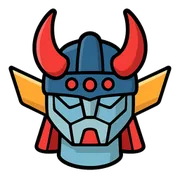
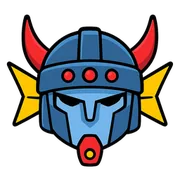
Use neckless Taekwon V head
Claude-Session: https://claude.ai/code/session_019QwctBLnb4UTXMJBnbargq

diff --git a/index.html b/index.html
@@ -2089,7 +2089,7 @@ const faceHTML = (e, who = 'suit') => FACE_ART[who][e] || FACE_ART.suit[e] || e;
 // 같은 그림이 여러 개 있어도 박자가 겹치지 않게 시작점을 흩뜨림
 // 그림을 다시 그려도 폰에 남은 옛 그림이 보이지 않게 주소에 버전을 붙임
 // 파일마다 내용이 바뀔 때만 새로 받도록 파일 해시를 붙임 (빌드할 때 채움)
-const ART_HASH = {"tile-gundam-a.png": "41a00219", "ind-school-a.png": "1b0fc977", "robot-cobot-cook-b.png": "3f739fa6", "tile-tool-a.png": "f174149f", "tile-made-a.png": "d557ba97", "ind-training-b.png": "0efc1d0b", "robot-qarm-a.png": "901f7afc", "tile-legs-b.png": "c0299b41", "tile-union-b.png": "b3a03a42", "tile-mgodz-b.png": "64821f9c", "robot-indus-b.png": "4a7cabef", "face-cook-frown.png": "e01a4907", "face-cook-neutral.png": "71441525", "ind-battery-b.png": "6e2bd18d", "ind-fire-a.png": "a71484d3", "face-trump-neutral.png": "5aecac90", "tile-legs-a.png": "2faadad6", "face-worker-angry.png": "eb6b88ed", "ind-steel-a.png": "0f070238", "face-suitf-delight.png": "d729900f", "tile-iarm-a.png": "fc127d92", "ind-steel-b.png": "e122612f", "ind-defense-b.png": "5aa959f1", "face-cook-angry.png": "50c65318", "ind-port-b.png": "6f5dc395", "tile-tf-a.png": "d2bc0939", "ind-factory-a.png": "909659fd", "tile-grendizer-b.png": "0151be7f", "tile-term-b.png": "fa8e5b3f", "face-neutral.png": "a9a959b5", "tile-wheel-a.png": "9e98ebac", "face-cook-smile.png": "be9219e0", "robot-indus-a.png": "ba4c70bc", "tile-korea-b.png": "ebe1008b", "face-trump-tear.png": "21d22245", "tile-auto-b.png": "bb58686e", "ind-material-b.png": "a8f27197", "tile-korea-a.png": "d1987f19", "tile-union-a.png": "d48507d4", "ind-auto-a.png": "9a8abf4f", "tile-taekwonv-b.png": "ed553564", "face-frown.png": "26865767", "robot-centaur-a.png": "a9e1e03b", "tile-auto-a.png": "e7100d25", "robot-cobot-cook-a.png": "2acb022c", "face-worker-tear.png": "940dcfc3", "ind-autoparts-b.png": "a5dbd76a", "face-suitf-angry.png": "5b24ceb5", "tile-iarm-b.png": "f0647318", "face-suitf-tear.png": "d0923069", "robot-centaur-b.png": "848f1932", "robot-mm-a.png": "e5da97cf", "ind-defense-a.png": "23a0651c", "robot-quad-a.png": "1e1384cf", "ind-autoparts-a.png": "26dcf7ce", "tile-eva-b.png": "b64d5546", "face-cook-tear.png": "d529800c", "tile-gundam-b.png": "69722c17", "face-trump-delight.png": "e41c1f7d", "face-angry.png": "8542c3c5", "tile-floor-b.png": "7bfb4d09", "face-suitf-smile.png": "2bfa949d", "ind-material-a.png": "2c67685e", "tile-mazinger-a.png": "2400cdc5", "tile-term-a.png": "f86a988f", "tile-eva-a.png": "48055f29", "tile-hum-a.png": "cdc85433", "ind-port-a.png": "0e5340b9", "ind-police-a.png": "717025fa", "wheel-tilt-ref.png": "4a1e31a2", "robot-cobot-a.png": "bb066d5e", "tile-mazinger-b.png": "dd429822", "face-trump-angry.png": "6fc0cf6d", "tile-wheel-b.png": "df5d2104", "indus-ref.png": "2bfe4680", "face-worker-neutral.png": "f4f1ff96", "robot-amr-a.png": "21455470", "face-delight.png": "4b63238d", "face-trump-frown.png": "4102f723", "robot-mm-b.png": "41cc89c7", "ind-fire-b.png": "c530534e", "ind-police-b.png": "750b1169", "ind-ess-b.png": "c7fac005", "ind-training-a.png": "a9fe00e5", "tile-mgodz-a.png": "36243d52", "tile-tf-b.png": "23f3efda", "ind-aircraft-a.png": "53a6b218", "ind-school-b.png": "a14af652", "tile-arm-b.png": "6cb9dab3", "tile-taekwonv-a.png": "0dd6aeb3", "face-worker-delight.png": "56fdb189", "face-worker-smile.png": "7eaefd7c", "robot-quad-b.png": "9b27fe7b", "ind-chicken-a.png": "bd4bc4e3", "face-cook-delight.png": "5ceb20b0", "ind-battery-a.png": "2ead7359", "robot-agv-b.png": "397f8942", "face-tear.png": "7cacead6", "face-suitf-neutral.png": "b29259fe", "ind-auto-b.png": "f90715bb", "ind-shipyard-a.png": "7c43481e", "tile-grendizer-a.png": "bf158543", "tile-tool-b.png": "c8c8a23a", "ind-factory-b.png": "b9dfaab4", "ind-chicken-b.png": "b4930a6b", "ind-shipyard-b.png": "098fdbae", "robot-qarm-b.png": "abd9a737", "tile-arm-a.png": "cd420a51", "tile-made-b.png": "7077aabd", "tile-floor-a.png": "14074a30", "robot-cobot-weld-a.png": "da53987b", "robot-agv-a.png": "ee67b65c", "ind-logistics-b.png": "9c5aeeca", "face-smile.png": "786eeb95", "face-worker-frown.png": "0f8d8086", "robot-cobot-weld-b.png": "a9e69108", "robot-amr-b.png": "09f47fab", "tile-hum-b.png": "01ca7c8b", "ind-ess-a.png": "83fff111", "face-suitf-frown.png": "1236f440", "ind-aircraft-b.png": "6afa5f2a", "face-trump-smile.png": "03674df8", "robot-cobot-b.png": "7ea58bc1", "ind-logistics-a.png": "b1b04f38"};
+const ART_HASH = {"tile-gundam-a.png": "41a00219", "ind-school-a.png": "1b0fc977", "robot-cobot-cook-b.png": "3f739fa6", "tile-tool-a.png": "f174149f", "tile-made-a.png": "d557ba97", "ind-training-b.png": "0efc1d0b", "robot-qarm-a.png": "901f7afc", "tile-legs-b.png": "c0299b41", "tile-union-b.png": "b3a03a42", "tile-mgodz-b.png": "64821f9c", "robot-indus-b.png": "4a7cabef", "face-cook-frown.png": "e01a4907", "face-cook-neutral.png": "71441525", "ind-battery-b.png": "6e2bd18d", "ind-fire-a.png": "a71484d3", "face-trump-neutral.png": "5aecac90", "tile-legs-a.png": "2faadad6", "face-worker-angry.png": "eb6b88ed", "ind-steel-a.png": "0f070238", "face-suitf-delight.png": "d729900f", "tile-iarm-a.png": "fc127d92", "ind-steel-b.png": "e122612f", "ind-defense-b.png": "5aa959f1", "face-cook-angry.png": "50c65318", "ind-port-b.png": "6f5dc395", "tile-tf-a.png": "d2bc0939", "ind-factory-a.png": "909659fd", "tile-grendizer-b.png": "0151be7f", "tile-term-b.png": "fa8e5b3f", "face-neutral.png": "a9a959b5", "tile-wheel-a.png": "9e98ebac", "face-cook-smile.png": "be9219e0", "robot-indus-a.png": "ba4c70bc", "tile-korea-b.png": "ebe1008b", "face-trump-tear.png": "21d22245", "tile-auto-b.png": "bb58686e", "ind-material-b.png": "a8f27197", "tile-korea-a.png": "d1987f19", "tile-union-a.png": "d48507d4", "ind-auto-a.png": "9a8abf4f", "tile-taekwonv-b.png": "90bb0aed", "face-frown.png": "26865767", "robot-centaur-a.png": "a9e1e03b", "tile-auto-a.png": "e7100d25", "robot-cobot-cook-a.png": "2acb022c", "face-worker-tear.png": "940dcfc3", "ind-autoparts-b.png": "a5dbd76a", "face-suitf-angry.png": "5b24ceb5", "tile-iarm-b.png": "f0647318", "face-suitf-tear.png": "d0923069", "robot-centaur-b.png": "848f1932", "robot-mm-a.png": "e5da97cf", "ind-defense-a.png": "23a0651c", "robot-quad-a.png": "1e1384cf", "ind-autoparts-a.png": "26dcf7ce", "tile-eva-b.png": "b64d5546", "face-cook-tear.png": "d529800c", "tile-gundam-b.png": "69722c17", "face-trump-delight.png": "e41c1f7d", "face-angry.png": "8542c3c5", "tile-floor-b.png": "7bfb4d09", "face-suitf-smile.png": "2bfa949d", "ind-material-a.png": "2c67685e", "tile-mazinger-a.png": "2400cdc5", "tile-term-a.png": "f86a988f", "tile-eva-a.png": "48055f29", "tile-hum-a.png": "cdc85433", "ind-port-a.png": "0e5340b9", "ind-police-a.png": "717025fa", "wheel-tilt-ref.png": "4a1e31a2", "robot-cobot-a.png": "bb066d5e", "tile-mazinger-b.png": "dd429822", "face-trump-angry.png": "6fc0cf6d", "tile-wheel-b.png": "df5d2104", "indus-ref.png": "2bfe4680", "face-worker-neutral.png": "f4f1ff96", "robot-amr-a.png": "21455470", "face-delight.png": "4b63238d", "face-trump-frown.png": "4102f723", "robot-mm-b.png": "41cc89c7", "ind-fire-b.png": "c530534e", "ind-police-b.png": "750b1169", "ind-ess-b.png": "c7fac005", "ind-training-a.png": "a9fe00e5", "tile-mgodz-a.png": "36243d52", "tile-tf-b.png": "23f3efda", "ind-aircraft-a.png": "53a6b218", "ind-school-b.png": "a14af652", "tile-arm-b.png": "6cb9dab3", "tile-taekwonv-a.png": "c5c86d4a", "face-worker-delight.png": "56fdb189", "face-worker-smile.png": "7eaefd7c", "robot-quad-b.png": "9b27fe7b", "ind-chicken-a.png": "bd4bc4e3", "face-cook-delight.png": "5ceb20b0", "ind-battery-a.png": "2ead7359", "robot-agv-b.png": "397f8942", "face-tear.png": "7cacead6", "face-suitf-neutral.png": "b29259fe", "ind-auto-b.png": "f90715bb", "ind-shipyard-a.png": "7c43481e", "tile-grendizer-a.png": "bf158543", "tile-tool-b.png": "c8c8a23a", "ind-factory-b.png": "b9dfaab4", "ind-chicken-b.png": "b4930a6b", "ind-shipyard-b.png": "098fdbae", "robot-qarm-b.png": "abd9a737", "tile-arm-a.png": "cd420a51", "tile-made-b.png": "7077aabd", "tile-floor-a.png": "14074a30", "robot-cobot-weld-a.png": "da53987b", "robot-agv-a.png": "ee67b65c", "ind-logistics-b.png": "9c5aeeca", "face-smile.png": "786eeb95", "face-worker-frown.png": "0f8d8086", "robot-cobot-weld-b.png": "a9e69108", "robot-amr-b.png": "09f47fab", "tile-hum-b.png": "01ca7c8b", "ind-ess-a.png": "83fff111", "face-suitf-frown.png": "1236f440", "ind-aircraft-b.png": "6afa5f2a", "face-trump-smile.png": "03674df8", "robot-cobot-b.png": "7ea58bc1", "ind-logistics-a.png": "b1b04f38"};
 // 게임에서는 가벼운 webp(assets/w/)를 씀. 파일 이름은 png와 같고 확장자만 다름
 const av = f => { const n = f.replace('assets/', ''); return `assets/w/${n.replace(/\.png$/, '.webp')}?v=${ART_HASH[n] || '0'}`; };
 // 업종 아이콘(ind-)은 a프레임만, 로봇·부품은 a·b를 번갈아 (팔이 까딱, 다리가 제자리걸음 등)
@@ -2466,7 +2466,7 @@ function banner(text, delay) {
 }
 
 // ───────── 진행 ─────────
-const BUILD_V = '1003-214843';
+const BUILD_V = '1003-215346';
 function loop(t) {
   const dt = Math.min(0.1, (t - (S.last || t)) / 1000);
   S.last = t;
